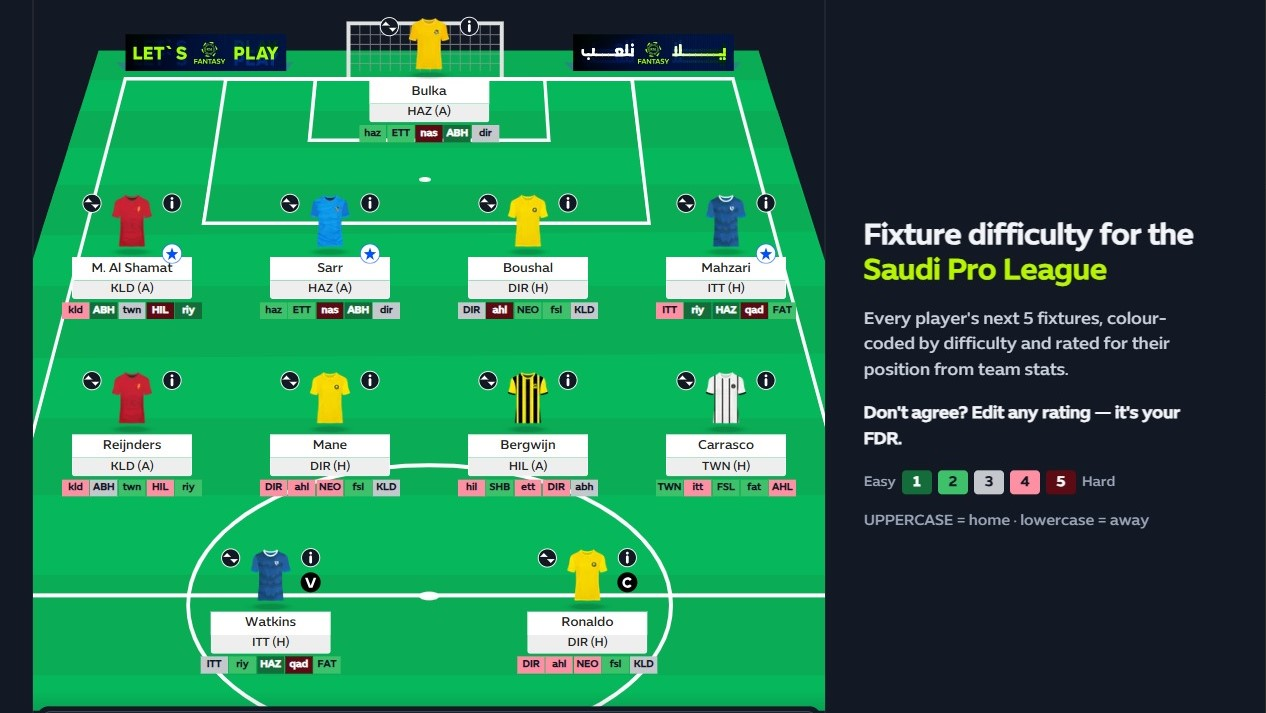
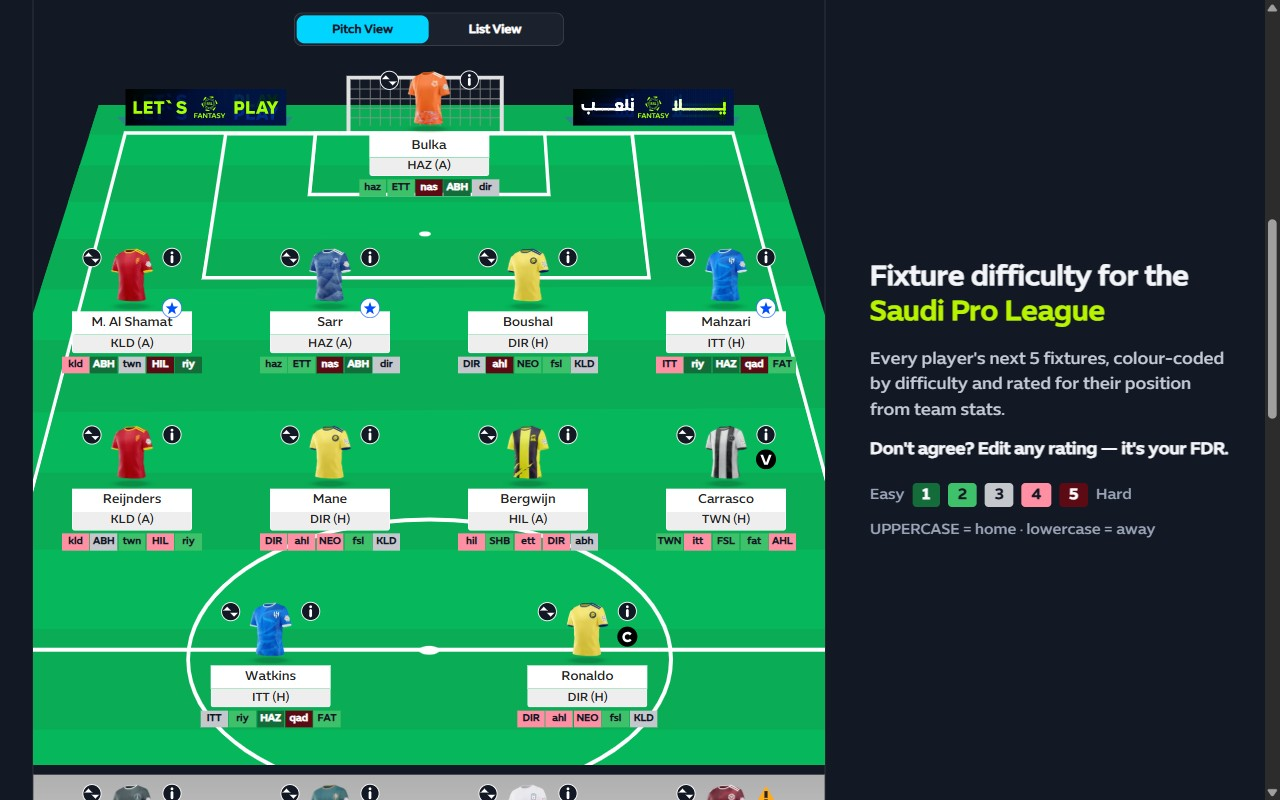
Update store listing, privacy policy and screenshots for the team planner
- PRIVACY.md: the planner reads the signed-in user's own team from the site
  (account details in the response are ignored) and saved plans are stored
  locally; nothing is sent anywhere.
- Store listing: gameweek browser, team planner and Arabic/English sections;
  privacy-practices answers cover reading the team and saving plans.
- Screenshots: new gameweek browser and team planner shots; screenshot 1
  retaken at the required 1280x800; defenders/rest-of-season shot dropped
  (store allows 5).
- Manifest summary mentions the planner; README lists the new features.

Claude-Session: https://claude.ai/code/session_01AitfJRRaMGNjXoE66aTtSm

Changed region(s): [[0.0, 0.0, 0.955, 1.0], [0.9858, 0.0, 1.0, 1.0]]

diff --git a/manifest.config.ts b/manifest.config.ts
@@ -6,7 +6,7 @@ export default defineManifest({
   name: "SPL Fantasy Helper",
   // Store limit: 132 characters. "Unofficial" up front — we are not affiliated with the league.
   description:
-    "Unofficial helper for SPL Fantasy: colour-coded next-5 fixtures on every player and a full-season fixture difficulty table.",
+    "Unofficial SPL Fantasy helper: colour-coded fixtures on every player, a team planner for future gameweeks and a difficulty table.",
   version: pkg.version,
   homepage_url: "https://github.com/AbdellahElAzyfy/FSPL-extension",
   icons: {
@@ -32,7 +32,8 @@ export default defineManifest({
     "https://fantasy.spl.com.sa/*",
     "https://*.fantasy.spl.com.sa/*",
   ],
-  // Saves the user's own edits to the team difficulty ratings (chrome.storage.sync).
+  // Saves the user's own edits to the team difficulty ratings (chrome.storage.sync)
+  // and their saved team plans (chrome.storage.local).
   permissions: ["storage"],
   content_scripts: [
     {

diff --git a/store/listing.md b/store/listing.md
@@ -9,8 +9,8 @@ Copy-paste text for the Developer Dashboard. Upload file:
 
 **Name:** SPL Fantasy Helper
 
-**Summary** (from the manifest, 123/132 chars):
-Unofficial helper for SPL Fantasy: colour-coded next-5 fixtures on every player and a full-season fixture difficulty table.
+**Summary** (from the manifest, 129/132 chars):
+Unofficial SPL Fantasy helper: colour-coded fixtures on every player, a team planner for future gameweeks and a difficulty table.
 
 **Category:** Sports
 
@@ -19,10 +19,19 @@ Unofficial helper for SPL Fantasy: colour-coded next-5 fixtures on every player 
 **Description:**
 
 ```
-Plan your SPL Fantasy transfers and captaincy faster — see every player's upcoming fixtures and how hard they are, right on the site.
+Plan your SPL Fantasy transfers and captaincy faster — see every player's upcoming fixtures, how hard they are, and how your team lines up in the weeks ahead, right on the site.
 
 NEXT 5 FIXTURES ON EVERY PLAYER
 On the Pick Team and Transfers screens, each player gets a strip of their team's next five opponents. UPPERCASE = home, lowercase = away. No more clicking into each player to check who they play.
+
+LOOK AHEAD TO ANY GAMEWEEK
+Step forward through the coming gameweeks on Pick Team: every player on your pitch shows who they face that week, colour-coded by difficulty. Spot the weak weeks before you pick your captain.
+
+TEAM PLANNER
+Below the pitch on the Transfers screen, see your starting XI and bench for any upcoming gameweek — including the transfers you've made but not confirmed yet, so you can see how a transfer affects your team before you commit.
+• Every player shows their fixture for that week.
+• Swap players between the team and the bench, and move the captain's armband.
+• Save plans with a name and come back to them later. Plans are kept in your browser.
 
 POSITION-AWARE FIXTURE DIFFICULTY
 Every fixture is colour-coded from 1 (easy, dark green) to 5 (hard, dark red), using team ratings based on team stats:
@@ -40,21 +49,23 @@ A new "Difficulty" tab in the site's menu shows every team's fixtures for the re
 • Teams are sorted easiest run first — spot fixture swings and plan transfers ahead.
 You can also open the table from the extension's toolbar icon.
 
-Works on both the Arabic and English versions of the site.
+ARABIC AND ENGLISH
+Works on both the Arabic and English versions of the site, and speaks the site's language.
 
 PRIVACY
-No accounts, no tracking, no data collected. The extension only runs on the SPL Fantasy website. Your rating edits stay in your own browser.
+No accounts, no tracking, no data collected. The extension only runs on the SPL Fantasy website. The team planner reads your team from the site to show it to you — it never leaves your browser. Your rating edits and plans are stored in your own browser.
 
 This is an unofficial, fan-made tool. It is not affiliated with, endorsed by or connected to the Saudi Pro League or SPL Fantasy.
 ```
 
 **Graphic assets:**
 - Store icon: `icons/icon128.png`
-- Screenshots (1280×800 JPEG, upload in this order):
+- Screenshots (1280×800 JPEG, upload in this order; the store allows 5):
   1. `store/screenshots/1-fixture-strips.jpeg` — Pick Team pitch with coloured strips (personal leagues sidebar replaced by a caption)
-  2. `store/screenshots/2-difficulty-attackers.jpeg` — Difficulty tab, Attackers, next 5 rounds
-  3. `store/screenshots/3-difficulty-defenders-season.jpeg` — Difficulty tab, Defenders, rest of season
-  4. `store/screenshots/4-edit-ratings.jpeg` — the ratings editor open
+  2. `store/screenshots/2-gameweek-browser.jpeg` — Pick Team browsed ahead to Gameweek 10
+  3. `store/screenshots/3-team-planner.jpeg` — the team planner on Transfers, a player selected with swap targets highlighted
+  4. `store/screenshots/4-difficulty-attackers.jpeg` — Difficulty tab, Attackers, next 5 rounds
+  5. `store/screenshots/5-edit-ratings.jpeg` — the ratings editor open
 - Small promo tile (440×280): optional
 
 ---
@@ -62,17 +73,17 @@ This is an unofficial, fan-made tool. It is not affiliated with, endorsed by or 
 ## Privacy practices tab
 
 **Single purpose:**
-Shows each SPL Fantasy player's upcoming fixtures and their difficulty directly on the SPL Fantasy website, plus a full-season fixture difficulty table, to help users plan their fantasy team.
+Helps users plan their SPL Fantasy team: shows each player's upcoming fixtures and their difficulty directly on the SPL Fantasy website, a planner showing the user's team in upcoming gameweeks, and a full-season fixture difficulty table.
 
 **Permission justification — host permissions** (`fantasy.spl.com.sa`, `*.fantasy.spl.com.sa`):
-The extension adds fixture strips and a difficulty table to SPL Fantasy pages, and reads the site's public fixtures and teams API to build them. The toolbar page also reads that same public API. It does not run on any other site.
+The extension adds fixture strips, a gameweek browser, a team planner and a difficulty table to SPL Fantasy pages. It reads the site's public fixtures and teams API to build them, and — on the Transfers page, for a signed-in user — the user's own team from the site, so the planner can show it. The toolbar page reads the same public API. It does not run on any other site.
 
 **Permission justification — storage:**
-Saves the user's own edits to the team difficulty ratings (a few numbers per team) so they persist between visits and across the user's devices via Chrome sync. Nothing is sent to the developer.
+Saves the user's own edits to the team difficulty ratings (a few numbers per team, synced across the user's devices via Chrome sync) and the team plans they choose to save (kept locally in the browser). Nothing is sent to the developer.
 
 **Remote code:** No, I am not using remote code. (The extension downloads a JSON data file of default team ratings; no scripts are loaded remotely.)
 
-**Data usage:** tick none of the data categories — the extension collects no user data.
+**Data usage:** tick none of the data categories. The planner reads the user's team from the SPL Fantasy site, but only to display it in the user's own browser; it is never transmitted to the developer or anyone else, and the account details the site returns alongside it (name, email) are ignored. This is described in the privacy policy.
 Certify all three statements (no selling/transfer, no unrelated use, no creditworthiness use).
 
 **Privacy policy URL:**

diff --git a/PRIVACY.md b/PRIVACY.md
@@ -1,33 +1,50 @@
 # Privacy Policy — SPL Fantasy Helper
 
-_Last updated: 1 October 2026_
+_Last updated: 3 October 2026_
 
 SPL Fantasy Helper is an unofficial browser extension that adds fixture
-information to the SPL Fantasy website (fantasy.spl.com.sa). It is not
-affiliated with or endorsed by the Saudi Pro League.
+information and a team planner to the SPL Fantasy website (fantasy.spl.com.sa).
+It is not affiliated with or endorsed by the Saudi Pro League.
 
 ## What the extension collects
 
 Nothing. The extension does not collect, sell or share any personal data. It
-has no accounts, no analytics, no tracking and no cookies of its own, and it
-does not read your SPL Fantasy login, team or any form input.
+has no accounts, no analytics, no tracking and no cookies of its own. Nothing
+about you or your team is ever sent to us or to anyone else.
+
+## What it reads on the SPL Fantasy website
+
+- **Fixtures, teams and players** — the site's public data, the same data the
+  site itself loads.
+- **Your own team, for the team planner** — when you are signed in to SPL
+  Fantasy and open the Transfers page, the extension asks the site for your
+  team (your players, their order on the bench, your captain). It does this
+  the same way the site does, through your existing login session; it never
+  sees or handles your password. The site's answer also includes your account
+  details such as your name and email address — the extension ignores them and
+  uses only your team ID. Your team is used only to draw the planner in your
+  browser.
 
 ## What it stores
 
-If you edit the team difficulty ratings, your edited values (numbers from 1 to
-5 per team) are saved with Chrome's built-in extension storage
-(`chrome.storage.sync`). If you're signed in to Chrome with sync turned on,
-Chrome syncs them across your own devices. They are never sent to us. Use
-"Reset all to default" in the ratings editor, or remove the extension, to
-delete them.
+Everything is stored with Chrome's built-in extension storage, on your device:
+
+- **Your rating edits** — if you edit the team difficulty ratings, your edited
+  values (numbers from 1 to 5 per team) are saved in `chrome.storage.sync`. If
+  you're signed in to Chrome with sync turned on, Chrome syncs them across your
+  own devices. Use "Reset all to default" in the ratings editor to delete them.
+- **Your saved plans** — if you save a plan in the team planner, its name, the
+  players in it (as player IDs), your lineup and captain, and your team ID are
+  saved in `chrome.storage.local`, in this browser only. Use "Delete" next to a
+  plan to remove it.
+
+Removing the extension deletes all of it. None of it is ever sent to us.
 
 ## What network requests it makes
 
-To show fixtures and difficulty ratings, the extension downloads public data
-from two places:
-
-- **The SPL Fantasy website's public API** (`fantasy.spl.com.sa`) — the list
-  of teams, players and fixtures, the same data the site itself loads.
+- **The SPL Fantasy website** (`fantasy.spl.com.sa`) — its public teams,
+  players and fixtures, and, on the Transfers page while you are signed in,
+  your own team as described above.
 - **This project's GitHub repository** (`raw.githubusercontent.com`) — a
   small file with the default team difficulty ratings.
 
@@ -39,7 +56,7 @@ nothing else about you.
 
 - **Site access** to `fantasy.spl.com.sa` (and its language subdomains such
   as `en.fantasy.spl.com.sa`) — the only site the extension runs on.
-- **Storage** — to save your own rating edits, as described above.
+- **Storage** — to save your rating edits and plans, as described above.
 
 ## Contact
 

diff --git a/README.md b/README.md
@@ -3,9 +3,12 @@
 Unofficial Chrome extension for [SPL Fantasy](https://fantasy.spl.com.sa/) (Arabic and English sites).
 
 - **Next 5 fixtures on every player** — on Pick Team and Transfers, each player row shows their team's next five opponents (UPPERCASE = home, lowercase = away).
+- **Gameweek browser** — on Pick Team, step through the coming gameweeks; each player shows that week's fixture, coloured by difficulty.
+- **Team planner** — below the pitch on Transfers: the XI and bench for any upcoming gameweek, following unconfirmed transfers (a player bought takes the sold player's slot). Swap players, move the armband, and save named plans (kept in the browser).
 - **Position-aware fixture difficulty** — each fixture is coloured 1 (easy) to 5 (hard) from team ratings based on team stats: attackers are rated against the opponent's defence, defenders against the opponent's attack, with separate home and away values.
 - **Full-season difficulty table** — a "Difficulty" tab added to the site's menu (also opened by the toolbar icon): every team × remaining round, attacker/defender toggle, next 5 / 10 / rest of season, sorted easiest first.
 - **Editable ratings** — users can adjust any team's ratings from the Difficulty tab ("Edit ratings"); changes recolour everything instantly and can be reset to the defaults.
+- **Arabic and English** — the extension's own text follows the site's language.
 
 Not affiliated with the Saudi Pro League. No data collected — see [PRIVACY.md](PRIVACY.md).
 
@@ -17,8 +20,11 @@ npm run build      # -> dist/, load it via chrome://extensions > Developer mode 
 npm run package    # build + zip for the Chrome Web Store -> release/
 ```
 
-- `src/content/` — content script: fixture strips on player rows, the injected Difficulty tab
-- `src/ui/` — fixture strip, season grid + ratings editor, shared difficulty colours
+- `src/content/` — content script: fixture strips on player rows, the Pick Team gameweek browser, the Transfers team planner, the injected Difficulty tab
+- `src/ui/` — fixture strip, gameweek stepper, season grid + ratings editor, shared difficulty colours, `i18n.ts` (English/Arabic text)
+- `src/planner/` — lineup rules (swaps, armbands, following transfers) and saved plans
+- `src/api/` — the site's public API, plus the signed-in user's team (`myTeam.ts`)
+- `src/fdr/schedule.ts` — remaining fixtures by team and open gameweek
 - `src/fdr/difficulty.ts` — difficulty lookup from team ratings
 - `src/fdr/ratingsStore.ts` — loads default ratings (bundled, then the repo copy) and the user's edits
 - `src/pages/season/` — standalone difficulty page (toolbar icon)
